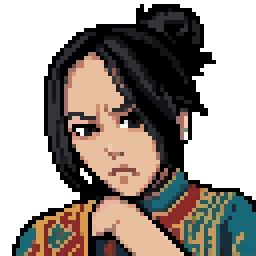
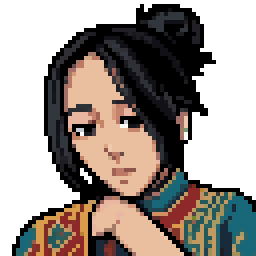
v0.87: шагом и бегом (пауза, Caps Lock), ноги в такт скорости; сдержанные лица Илиа и Алкимы без слёз
Claude-Session: https://claude.ai/code/session_01NZaKJV7VXAQHZfGwN3MbH5

diff --git a/src/main.js b/src/main.js
@@ -5,7 +5,7 @@ import { createEnemy, RISE_TIME } from './enemy.js';
 import { Player, FLURRY_TOSS } from './player.js';
 import { resolveImpact, isBackstab } from './combat.js';
 import { drawFigure, drawFigureOutlined, drawFigureFrontOutlined, drawSlimeOutlined, drawFigureFront, drawSlime, drawArrow, drawPickup, flashColors, rect } from './draw.js';
-import { POSES, approachPose, ease, gaitCycle, gaitFoot } from './poses.js';
+import { POSES, approachPose, ease, strideCycle, gaitFoot } from './poses.js';
 import { buildRoom, buildImageRoom, drawTorches, drawFlames, drawPortal, drawProp, drawCobweb, drawDarkness, drawGatePanel, drawDoorOpen, DOOR_W, objectsReady, pairNormals, stairsGeom, decorBounds, objImage, drawBonePileImg, drawSlimeImg, drawObjNamed, hasObj } from './background.js';
 import { Tutorial } from './tutorial.js';
 import { drawDecorLive, drawCracks, drawSlab, drawStainedGlass, drawShelfDoor, DECOR_LIVE } from './decor.js';
@@ -854,7 +854,7 @@ function setMenu(items) {
 }
 
 const CONTROLS_TEXT = [
-  'WASD — ходить вбок и вглубь (вне боя — бег)',
+  'WASD — ходить вбок и вглубь (вне боя — бег) · Caps Lock — шагом / бегом',
   'Курсор выше рыцаря — верх, на груди — середина, ниже пояса — низ',
   'ЛКМ — удар на этой высоте · держать ПКМ — защита',
   'Пробел — рывок (курсор внизу — кувырок, вверху — прыжок, с «назад» — отскок)',
@@ -862,6 +862,15 @@ const CONTROLS_TEXT = [
   'E — говорить, лавка, сундук, осмотреть, отдохнуть · W у двери или лестницы — пройти',
   'I — снаряжение · H — зелье · B — журнал · M — карта · Esc — пауза',
 ].join('\n');
+
+// шагом или бегом (v0.87, владелец: «нужно и ходить медленно, и бегать»): выбор в паузе, Caps Lock — переключает
+let strollOn = false;
+try { strollOn = localStorage.getItem('knightNight.stroll') === 'on'; } catch { /* без хранилища — бегом */ }
+function setStroll(on) {
+  strollOn = on;
+  try { localStorage.setItem('knightNight.stroll', on ? 'on' : 'off'); } catch { /* ничего */ }
+}
+const strolling = () => strollOn !== input.caps();
 
 function showControls(back) {
   showOverlay('Управление', CONTROLS_TEXT, 'Esc — назад');
@@ -880,6 +889,7 @@ function showPause() {
     ['Управление', () => showControls(showPause)],
     [`Звуки окружения: ${ambientOn ? 'вкл' : 'выкл'}`, () => { setAmbient(!ambientOn); game.ambRoom = null; showPause(); }],
     [`Музыка: ${musicOn ? 'вкл' : 'выкл'}`, () => { setMusic(!musicOn); showPause(); }],
+    [`Передвижение: ${strollOn ? 'шагом' : 'бегом'} (Caps Lock — сменить)`, () => { setStroll(!strollOn); showPause(); }],
     [`Лёгкий режим: ${easyOn ? 'вкл' : 'выкл'}`, () => { setEasy(!easyOn); showPause(); }],
     ['Новая игра', askNewFromPause],
     ['Главное меню', toTitle],
@@ -1294,6 +1304,7 @@ function controls() {
     dz,
     guard: held('guard') ? game.aim : null,
     engaged,
+    stroll: strolling(),
     anyInput: L || R || dz !== 0,
   };
 }
@@ -1849,7 +1860,7 @@ function updateTransition(dt) {
       p.x += Math.sign(dx) * Math.min(Math.abs(dx), v * dt);
       p.z = Math.max(0, p.z - CONFIG.exploreDepthSpeed * dt);
       p.walking = true;
-      p.step += dt * v / gaitCycle(0);
+      p.step += dt * v / strideCycle(0);
       if ((Math.abs(dx) < 1 && p.z <= 0.5) || tr.t > 1.4) { tr.phase = 'climb'; tr.t = 0; }
       return;
     }
@@ -1874,7 +1885,7 @@ function updateTransition(dt) {
     if (tr.phase === 'out') {
       p.facing = tr.dir;
       p.x += tr.dir * CONFIG.exploreSpeed * 0.6 * dt;
-      p.step += dt * CONFIG.exploreSpeed * 0.6 / gaitCycle(0);
+      p.step += dt * CONFIG.exploreSpeed * 0.6 / strideCycle(0);
       p.walking = true;
       if (tr.t >= STAIR_PHASES.out) {
         const to = ROOMS[tr.door.to];
@@ -1901,7 +1912,7 @@ function updateTransition(dt) {
     const v = Math.max(CONFIG.exploreSpeed, p.speedNow ?? 0);
     p.x += tr.dir * v * dt;
     p.facing = tr.dir;
-    p.step += dt * v / gaitCycle(p.gaitRun ?? 0);
+    p.step += dt * v / strideCycle(p.gaitRun ?? 0);
     p.walking = true;
     if (tr.phase === 'out' && tr.t >= EDGE_PHASES.out) {
       loadRoom(tr.edge.to, { x: tr.edge.x - tr.dir * 18, z: p.z, facing: tr.dir });
@@ -2024,6 +2035,8 @@ function update(dt) {
   if (game.rest) { updateRest(dt); updateCoinFx(dt); updateCamera(dt); return; }
   if (game.vibe) { updateVibe(dt); updateCamera(dt); return; }
   updateShield(dt);
+  if (strolling() !== (game.strollShown ?? strollOn)) callout(strolling() ? 'Шагом' : 'Бегом', 'muted');   // переключил Caps Lock
+  game.strollShown = strolling();
   updateEnterTalk();
   updateArena();
   updateTrainerMeet();

diff --git a/src/player.js b/src/player.js
@@ -1,5 +1,5 @@
 import { CONFIG, WEAPON, WEAPONS } from './config.js';
-import { POSES, approachPose, lerpPose, spinPose, eightPose, ease, gaitCycle } from './poses.js';
+import { POSES, approachPose, lerpPose, spinPose, eightPose, ease, strideCycle } from './poses.js';
 
 // Какой удар выйдет при нажатии атаки. vert — зажатое направление ('up' | 'down' | null),
 // spin — только что нажато вперёд → назад, state / t — что рыцарь делает сейчас, sinceRoll — сколько прошло после кувырка.
@@ -266,20 +266,22 @@ export class Player {
         // в защите ходит медленнее
         const slow = g ? 0.6 : 1;
         let v = 0;
-        // вне боя через полсекунды ходьбы рыцарь сам переходит на бег
+        // вне боя через полсекунды ходьбы рыцарь сам переходит на бег; режим «шагом» (v0.87) — спокойный шаг без бега
         const moving = c.fwd || c.back || c.dz;
-        this.runT = !c.engaged && moving ? (this.runT ?? 0) + dt : 0;
+        const stroll = c.stroll && !c.engaged;
+        this.runT = !c.engaged && !stroll && moving ? (this.runT ?? 0) + dt : 0;
         const run = Math.min(1, Math.max(0, (this.runT - CONFIG.runDelay) / 0.25));
-        const walk = (c.engaged ? CONFIG.walkSpeed : CONFIG.exploreSpeed + (CONFIG.runSpeed - CONFIG.exploreSpeed) * run) * (this.speedMult ?? 1);  // броня мародёра — быстрее
+        const walk = (c.engaged ? CONFIG.walkSpeed : stroll ? CONFIG.strollSpeed : CONFIG.exploreSpeed + (CONFIG.runSpeed - CONFIG.exploreSpeed) * run) * (this.speedMult ?? 1);  // броня мародёра — быстрее
         this.stepRate = walk / 64;  // ноги быстрее, когда идёт быстрее
         if (c.back) v = -walk * CONFIG.backWalkFactor;
         else if (c.fwd) v = walk;
         if (v) forward(v * slow * dt);
         this.gaitRun = run;
-        this.speedNow = Math.hypot(v * slow, (c.dz ?? 0) * (c.engaged ? CONFIG.depthSpeed : CONFIG.exploreDepthSpeed) * slow);
+        this.speedNow = Math.hypot(v * slow, (c.dz ?? 0) * (c.engaged ? CONFIG.depthSpeed : stroll ? CONFIG.strollDepthSpeed : CONFIG.exploreDepthSpeed) * slow);
         // на бегу оружие (любое) за спиной, руки свободны; sheatheAt — когда убрал (для анимации)
-        if (run > 0.5 && !g && !this.sheathed) { this.sheathed = true; this.sheatheAt = this.clock; this.sheatheRun = true; }
-        if (c.dz) this.z = Math.max(0, Math.min(CONFIG.depth, this.z + c.dz * (c.engaged ? CONFIG.depthSpeed : CONFIG.exploreDepthSpeed) * slow * dt));
+        this.strollT = stroll && moving ? (this.strollT ?? 0) + dt : 0;   // шагом меч убирается через секунду
+        if ((run > 0.5 || this.strollT > 1) && !g && !this.sheathed) { this.sheathed = true; this.sheatheAt = this.clock; this.sheatheRun = true; }
+        if (c.dz) this.z = Math.max(0, Math.min(CONFIG.depth, this.z + c.dz * (c.engaged ? CONFIG.depthSpeed : stroll ? CONFIG.strollDepthSpeed : CONFIG.exploreDepthSpeed) * slow * dt));
         this.walking = !!(v || c.dz);
         if (!c.engaged && !g && !this.sheathed && this.idleT > CONFIG.autoSheathe) { this.sheathed = true; this.sheatheAt = this.clock; this.sheatheRun = false; }
         const rest = this.weapon === 'rapier' ? POSES.fence : POSES.idle;
@@ -392,6 +394,6 @@ export class Player {
     }
 
     if (target) this.pose = approachPose(this.pose, target, dt, this.state === 'attack' ? 55 : 40);
-    this.step = this.walking ? this.step + dt * (this.speedNow ?? 60) / gaitCycle(this.gaitRun ?? 0) : 0;
+    this.step = this.walking ? this.step + dt * (this.speedNow ?? 60) / strideCycle(this.gaitRun ?? 0) : 0;
   }
 }

diff --git a/src/input.js b/src/input.js
@@ -5,7 +5,11 @@ export function createInput(target = window) {
   const order = [];   // зажатые клавиши, последняя — самая свежая
   const queue = [];   // новые нажатия с прошлого кадра
 
+  let caps = false;   // Caps Lock включён (браузер сообщает его с каждой клавишей и кнопкой мыши)
+  const readCaps = e => { if (e.getModifierState) caps = e.getModifierState('CapsLock'); };
+  target.addEventListener('mousedown', readCaps);
   target.addEventListener('keydown', e => {
+    readCaps(e);
     if (BLOCKED.has(e.code)) e.preventDefault();
     if (e.repeat) return;
     const i = order.indexOf(e.code);
@@ -14,6 +18,7 @@ export function createInput(target = window) {
     queue.push(e.code);
   });
   target.addEventListener('keyup', e => {
+    readCaps(e);
     const i = order.indexOf(e.code);
     if (i >= 0) order.splice(i, 1);
   });
@@ -21,6 +26,7 @@ export function createInput(target = window) {
 
   return {
     isDown: code => order.includes(code),
+    caps: () => caps,
     // самая свежая зажатая клавиша из map → её значение
     latest(map) {
       for (let i = order.length - 1; i >= 0; i--) if (order[i] in map) return map[order[i]];

diff --git a/src/config.js b/src/config.js
@@ -1,7 +1,7 @@
 // Все числа, которые влияют на ощущение боя, собраны здесь.
 // Время — в секундах, расстояния — в пикселях игрового экрана (320×180).
 
-export const VERSION = 'v0.86';
+export const VERSION = 'v0.87';
 
 export const CONFIG = {
   width: 320,
@@ -40,6 +40,8 @@ export const CONFIG = {
   runSpeed: 210,        // вне боя рыцарь сам переходит на бег (v0.17)
   runDelay: 0.35,       // через столько секунд ходьбы
   exploreDepthSpeed: 70,
+  strollSpeed: 46,      // режим «шагом» (v0.87, Caps Lock или пауза → Передвижение): спокойный шаг вне боя
+  strollDepthSpeed: 34,
   enemyMove: 1.4,       // множитель скорости передвижения врагов (не ударов)
   backWalkFactor: 0.8,  // пятиться медленнее, чем идти вперёд
   bodyGap: 14,          // ближе бойцы не подходят друг к другу

diff --git a/src/poses.js b/src/poses.js
@@ -7,6 +7,10 @@
 // на бегу опора короче, шаг длиннее, есть полёт и колено выше.
 export const gait = run => ({ duty: 0.62 - 0.27 * run, amp: 5 + 4 * run, lift: 2 + 4 * run });
 export const gaitCycle = run => { const g = gait(run); return 2 * g.amp / g.duty; };  // пикселей за цикл
+// кадры спрайта (v0.87): цикл ходьбы рыцаря из PixelLab проходит ≈ 26 px мира (два шага), бега — как gaitCycle(1);
+// ноги идут в такт скорости — шагом он не «семенит» и не скользит
+export const WALK_STRIDE = 26;
+export const strideCycle = run => WALK_STRIDE + (gaitCycle(1) - WALK_STRIDE) * run;
 export function gaitFoot(u, run) {
   const { duty, amp, lift } = gait(run);
   u = ((u % 1) + 1) % 1;

diff --git a/src/story/dialogues.js b/src/story/dialogues.js
@@ -162,7 +162,7 @@ export const DIALOGUES = {
     { who: 'ilia', text: '[черновик] Огонь ещё горит. Садись, если устал.' },
   ],
   ilia_need: [
-    { who: 'ilia', mood: 'pain', text: '[черновик] Бинт и зелье, Найт. Говорят, внизу кто-то торгует. Я подожду — мне всё равно спешить некуда.' },
+    { who: 'ilia', mood: 'serious', text: '[черновик] Бинт и зелье, Найт. Говорят, внизу кто-то торгует. Я подожду — мне всё равно спешить некуда.' },
   ],
   ilia_heal: [
     { who: 'ilia', text: '[черновик] Ты что-то принёс?', choices: [

diff --git a/tools/pixellab_moods.py b/tools/pixellab_moods.py
@@ -1,6 +1,7 @@
 # Настроения портретов (владелец, 15.10: «больше эмоций всем, как у Лики»): правка утверждённого портрета 64×64
 # (edit-image-pixen), тот же персонаж — меняется только выражение / поза головы / свет. Канон — docs/art-canon.md.
 #   python3 tools/pixellab_moods.py [персонаж ...]          → .pixellab_work/moods/<персонаж>_<настроение>_<k>_NN.png + лист
+#   python3 tools/pixellab_moods.py ilia_calm alkima_calm  → сдержанные настроения (v0.87)
 #   python3 tools/pixellab_moods.py pick <персонаж> <настроение> <файл>  → assets/portraits/<имя>-<настроение>.png (256×256)
 import sys, os
 sys.path.insert(0, os.path.dirname(os.path.abspath(__file__)))
@@ -9,9 +10,20 @@ from concurrent.futures import ThreadPoolExecutor
 ROOT = os.path.dirname(os.path.dirname(os.path.abspath(__file__)))
 W = os.path.join(ROOT, '.pixellab_work', 'moods'); os.makedirs(W, exist_ok=True)
 POR = os.path.join(ROOT, 'assets', 'portraits')
-FACE = {'alkima': 'alkima', 'ilia': 'ilia', 'knight': 'knight'}
+FACE = {'alkima': 'alkima', 'ilia': 'ilia', 'knight': 'knight', 'alkima_calm': 'alkima', 'ilia_calm': 'ilia'}
+KEEP_CALM = 'a calm, reserved, restrained person: the expression change is subtle and understated; '
 KEEP = 'keep exactly the same character, hair, clothes, colors, framing and pixel art style; only change: '
 MOODS = {
+    # владелец, 16.10: Алкима и Илиа — спокойные, сдержанные люди; эмоции были слишком сильные и не к месту, плачущих не надо вообще.
+    # Новые настроения — сдержанные: рот закрыт или чуть приоткрыт, мимика мягкая, без слёз (запуск с MOODS_TAG=calm).
+    'alkima_calm': {'happy': 'a soft gentle closed-mouth smile, calm eyes', 'sly': 'a faint knowing smirk with closed lips, calm eyes',
+               'surprised': 'mildly surprised, eyebrows slightly raised, lips closed', 'serious': 'serious focused look, calm closed lips',
+               'worried': 'slightly concerned, eyebrows a little drawn together, lips closed, calm', 'sad': 'quietly pensive, eyes slightly lowered, lips closed, dry eyes, no tears',
+               'annoyed': 'mildly unimpressed, eyes slightly narrowed, lips closed'},
+    'ilia_calm': {'happy': 'a small calm closed-mouth smile', 'surprised': 'mildly surprised, eyebrows slightly raised, lips closed',
+             'serious': 'calm serious look, closed lips', 'worried': 'slightly concerned, eyebrows a little drawn together, lips closed',
+             'sad': 'quietly pensive, eyes slightly lowered, lips closed, dry eyes, no tears', 'angry': 'cold restrained displeasure, eyes slightly narrowed, lips pressed together, mouth closed',
+             'pain': 'a restrained wince, eyes slightly narrowed, jaw tight, lips closed, dry eyes, no tears', 'awkward': 'a faint embarrassed half smile, lips closed, eyes glancing aside, keep his short beard and moustache'},
     'alkima': {'happy': 'a warm open smile', 'sly': 'a sly knowing half smile, one eyebrow raised', 'surprised': 'surprised, eyebrows up, lips parted',
                'serious': 'serious focused look, calm closed lips', 'worried': 'worried, eyebrows drawn together', 'sad': 'quietly sad, eyes lowered',
                'annoyed': 'annoyed, slight frown, eyes narrowed'},
@@ -42,7 +54,7 @@ for who in sys.argv[1:] or list(MOODS):
     def job(a):
         m, k = a
         try:
-          return run('/edit-image-pixen', {'image': img, 'description': KEEP + MOODS[who][m], 'width': 64, 'height': 64, 'no_background': True, 'seed': 31 + k},
+          return run('/edit-image-pixen', {'image': img, 'description': KEEP + (KEEP_CALM if who.endswith('_calm') else '') + MOODS[who][m], 'width': 64, 'height': 64, 'no_background': True, 'seed': 31 + k},
                    os.path.join(W, f'{who}_{m}_{k}'))
         except SystemExit as e:   # сбой сервера на одном варианте — не валить остальные
           print('сбой', m, k, str(e)[:120], flush=True); return []

diff --git a/docs/design.md b/docs/design.md
@@ -151,6 +151,12 @@
 
 **Взаимодействия (новые глаголы):** осмотреть (есть, E), сесть (есть, места отдыха), **взять** (мелочь в сумку: записки, ключи, находки), **потрогать / использовать** (рычаг, колокол, свеча, книга, шкатулка — что-то меняется в комнате), позже — **нести** (факел и т. п.). Под каждое — короткая анимация рыцаря: присесть и поднять, протянуть руку, читать.
 
+## v0.87: шагом и бегом, сдержанные лица Илиа и Алкимы (владелец)
+
+- **Шагом / бегом.** Вне боя по умолчанию как раньше: шаг и через треть секунды — бег. Режим «шагом» — спокойный шаг (`strollSpeed` 46, вглубь 34), без бега, меч через секунду уходит за спину. Включается в паузе («Передвижение: шагом / бегом», запоминается) и переключается Caps Lock (как в Skyrim); при переключении — надпись «Шагом» / «Бегом». В бою — как раньше.
+- **Ноги в такт скорости.** Цикл ходьбы спрайта Найта проходит ≈ 26 px мира (два шага; мерили по кадрам `walk_*`), раньше шаг считался по старой фигурке (≈ 16 px) — ноги семенили. Теперь `strideCycle(run)` в `src/poses.js`: от 26 (шаг) до цикла бега.
+- **Илиа и Алкима — спокойные, сдержанные люди** (владелец): все их настроения перерисованы правкой портрета в PixelLab (`tools/pixellab_moods.py ilia_calm alkima_calm`) — рот закрыт, мимика мягкая, **без слёз**. Плачущих лиц у персонажей не делать.
+
 ## v0.86: быстрый обратный путь (решение владельца, «1 + 2»)
 
 - **Враги возвращаются только после отдыха**, а не через 150 с: зачищенная комната пустая, пока не сядешь отдыхать (диван, камин, костёр…). Отдых возвращает обычных врагов по всему замку — монеты по-прежнему не кончаются. Сюжетные бои, боссы и встречи с диалогом не возвращаются.
